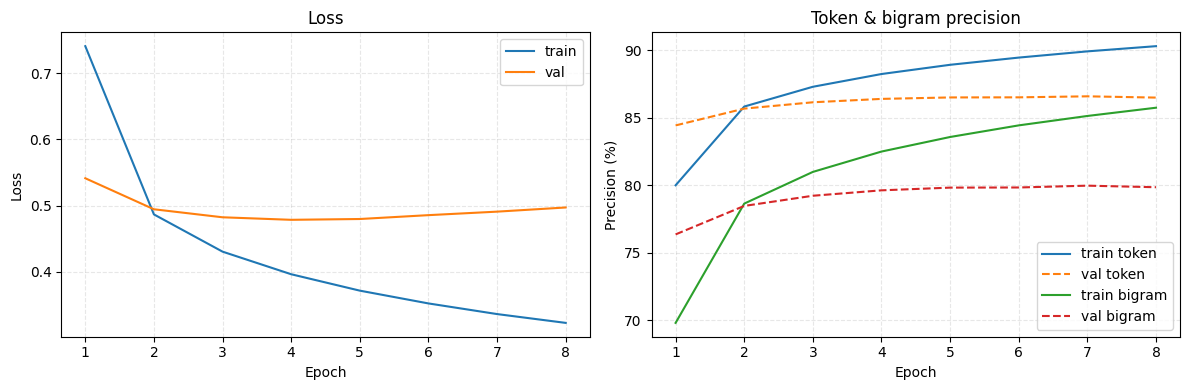
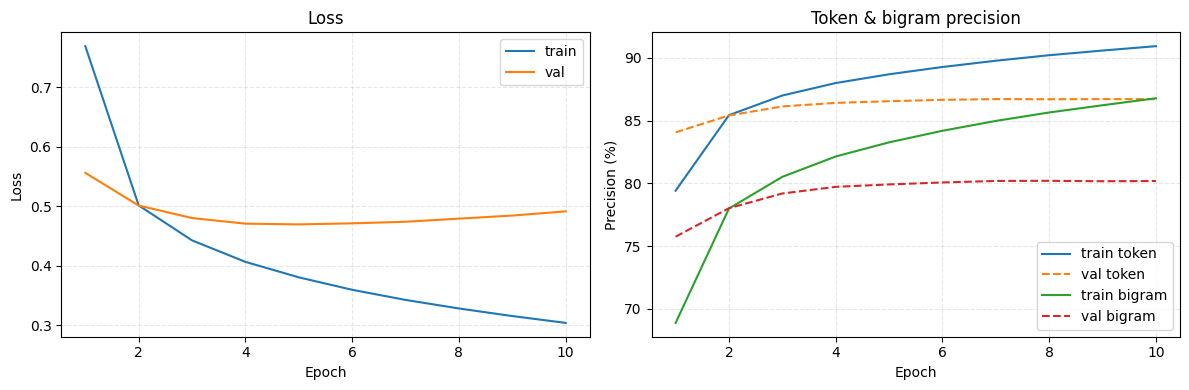
more experiments

diff --git a/demo.py b/demo.py
@@ -5,4 +5,4 @@ from train import train_model
 
 if __name__ == "__main__":
     print("Training model on subset...")
-    train_model(num_epochs=8, batch_size=256, max_samples=2**18, lr=0.002)
+    train_model(num_epochs=10, batch_size=128, max_samples=2**18, lr=0.001)
